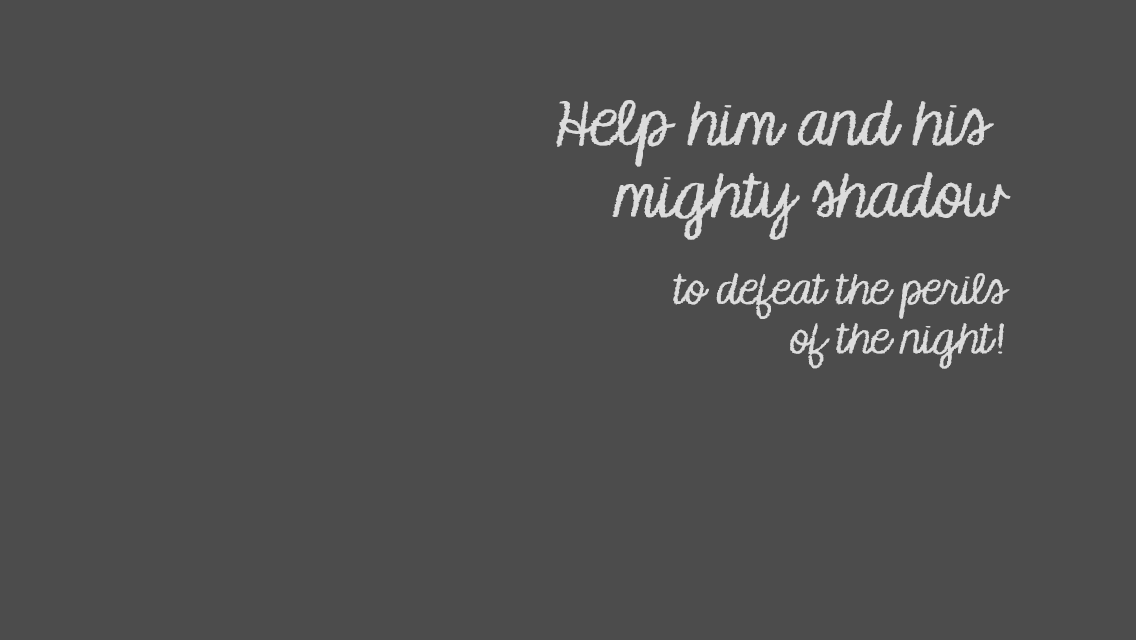
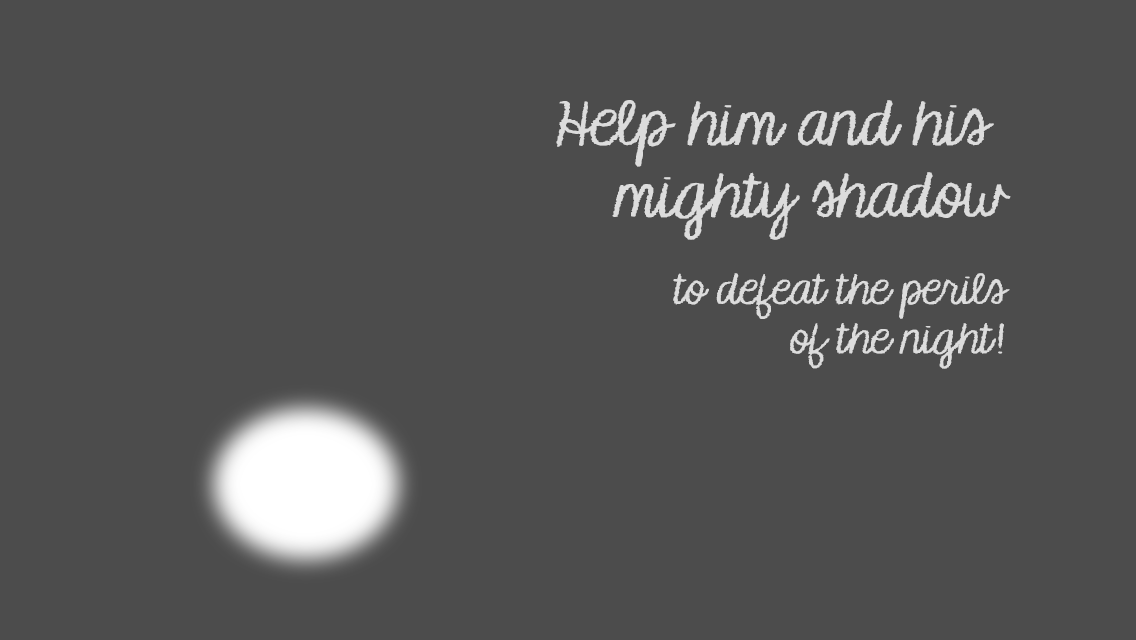
adding tutorial

Changed region(s): [[0.154, 0.625, 0.3697, 0.9062]]

diff --git a/sources-sparrow/PeeQuest/PeeQuest/ui/PQTutorial.m b/sources-sparrow/PeeQuest/PeeQuest/ui/PQTutorial.m
@@ -1,0 +1,83 @@
+//
+//  PQTutorial.m
+//  PeeQuest
+//
+//  Created by Gabriel Laet on 1/26/14.
+//  Copyright (c) 2014 Doubleleft. All rights reserved.
+//
+
+#import "PQTutorial.h"
+
+@implementation PQTutorial
+{
+    NSMutableArray *steps;
+    SPImage *current;
+    int _currentStep;
+}
+
+- (void)build
+{
+    if(steps == NULL){
+        steps = [[NSMutableArray alloc] init];
+        [steps addObject:[[SPImage alloc] initWithContentsOfFile:@"tutorial01.png"]];
+        [steps addObject:[[SPImage alloc] initWithContentsOfFile:@"tutorial02.png"]];
+        [steps addObject:[[SPImage alloc] initWithContentsOfFile:@"tutorial03.png"]];
+        [steps addObject:[[SPImage alloc] initWithContentsOfFile:@"tutorial04.png"]];
+    }
+    
+    _currentStep = 0;
+    [self update];
+    [self performSelector:@selector(next) withObject:self afterDelay:4.0];
+    [self performSelector:@selector(next) withObject:self afterDelay:7.0];
+    
+    [self setTouchable:NO];
+    
+}
+
+- (void)update
+{
+    if(current != NULL){
+        
+        SPTween *tween = [SPTween tweenWithTarget:current time:0.5];
+        [tween fadeTo:0.0];
+        [Sparrow.juggler addObject:tween];
+    }
+    
+    current = [steps objectAtIndex:_currentStep];
+    current.alpha = 0;
+    [self addChild:current];
+    
+    SPTween *tween = [SPTween tweenWithTarget:current time:0.5];
+    [tween setDelay:0.3];
+    [tween fadeTo:1.0];
+    [Sparrow.juggler addObject:tween];
+    
+}
+
+-(void)next
+{
+    _currentStep++;
+    _currentStep = MIN(_currentStep,[steps count]-1);
+    [self update];
+}
+
+-(void)reset
+{
+    _currentStep = 0;
+    [self update];
+}
+
+-(int)step
+{
+    return _currentStep;
+}
+-(void)hide
+{
+    SPTween *tween = [SPTween tweenWithTarget:self time:0.5];
+    [tween fadeTo:0.0];
+    tween.onComplete = ^(){
+        [self removeFromParent];
+    };
+    [Sparrow.juggler addObject:tween];
+}
+@end

diff --git a/sources-sparrow/PeeQuest/PeeQuest/controllers/PQGameController.m b/sources-sparrow/PeeQuest/PeeQuest/controllers/PQGameController.m
@@ -14,13 +14,14 @@
 #import "PQPlayerController.h"
 #import "PQGame.h"
 #import "PQGameplayUI.h"
-
+#import "PQTutorial.h"
 
 @interface PQGameController ()
 {
     BOOL win;
     int tempTickCounter;
     int lifes;
+    PQTutorial *tutorial;
 }
 
 @property SPSprite *mainContainer;
@@ -69,6 +70,7 @@
     [self updatePlacedObstacles];
     _paused = YES;
     levelOffset = 0;
+    
 }
 
 -(void)initRainTimer
@@ -200,7 +202,6 @@
 
 - (void)start
 {
-    
     if ([placedObstacles count] > 0) {
         NSArray *tempArray = [placedObstacles copy];
         for (id currentObstacle in tempArray) {
@@ -214,6 +215,15 @@
      [self updatePlacedObstacles];
     lifes = PLAYER_LIFES;
     [[PQGameplayUI sharedInstance] updateLifes:lifes];
+    
+    if(![[NSUserDefaults standardUserDefaults] objectForKey:@"tutorialWatched"]){
+        if(tutorial == NULL){
+            tutorial = [[PQTutorial alloc] init];
+            [tutorial build];
+            [_mainContainer.parent addChild:tutorial];
+        }
+    }
+    
 }
 
 - (void)onUserTouch:(SPTouchEvent*)event
@@ -223,8 +233,23 @@
     SPTouch *touch = [[event touchesWithTarget:_mainContainer
                                       andPhase:SPTouchPhaseBegan] anyObject];
 
+    
     if (touch && touch.globalY > 100)
     {
+        if(tutorial != NULL){
+            if([tutorial step] >= 2){
+                if([tutorial step] == 3){
+                    [tutorial hide];
+                    tutorial = NULL;
+                    [[NSUserDefaults standardUserDefaults] setBool:YES forKey:@"tutorialWatched"];
+                    [[NSUserDefaults standardUserDefaults] synchronize];
+                }else{
+                    [tutorial next];
+                }
+            }else{
+                return;
+            }
+        }
         [_player toogleMove];
         
     }else if(touch && touch.globalY < 100){

diff --git a/sources-sparrow/PeeQuest/PeeQuest/ui/PQTutorial.h b/sources-sparrow/PeeQuest/PeeQuest/ui/PQTutorial.h
@@ -1,0 +1,18 @@
+//
+//  PQTutorial.h
+//  PeeQuest
+//
+//  Created by Gabriel Laet on 1/26/14.
+//  Copyright (c) 2014 Doubleleft. All rights reserved.
+//
+
+#import <UIKit/UIKit.h>
+
+@interface PQTutorial : SPSprite
+-(void)build;
+-(void)update;
+-(void)next;
+-(void)reset;
+-(int)step;
+-(void)hide;
+@end
